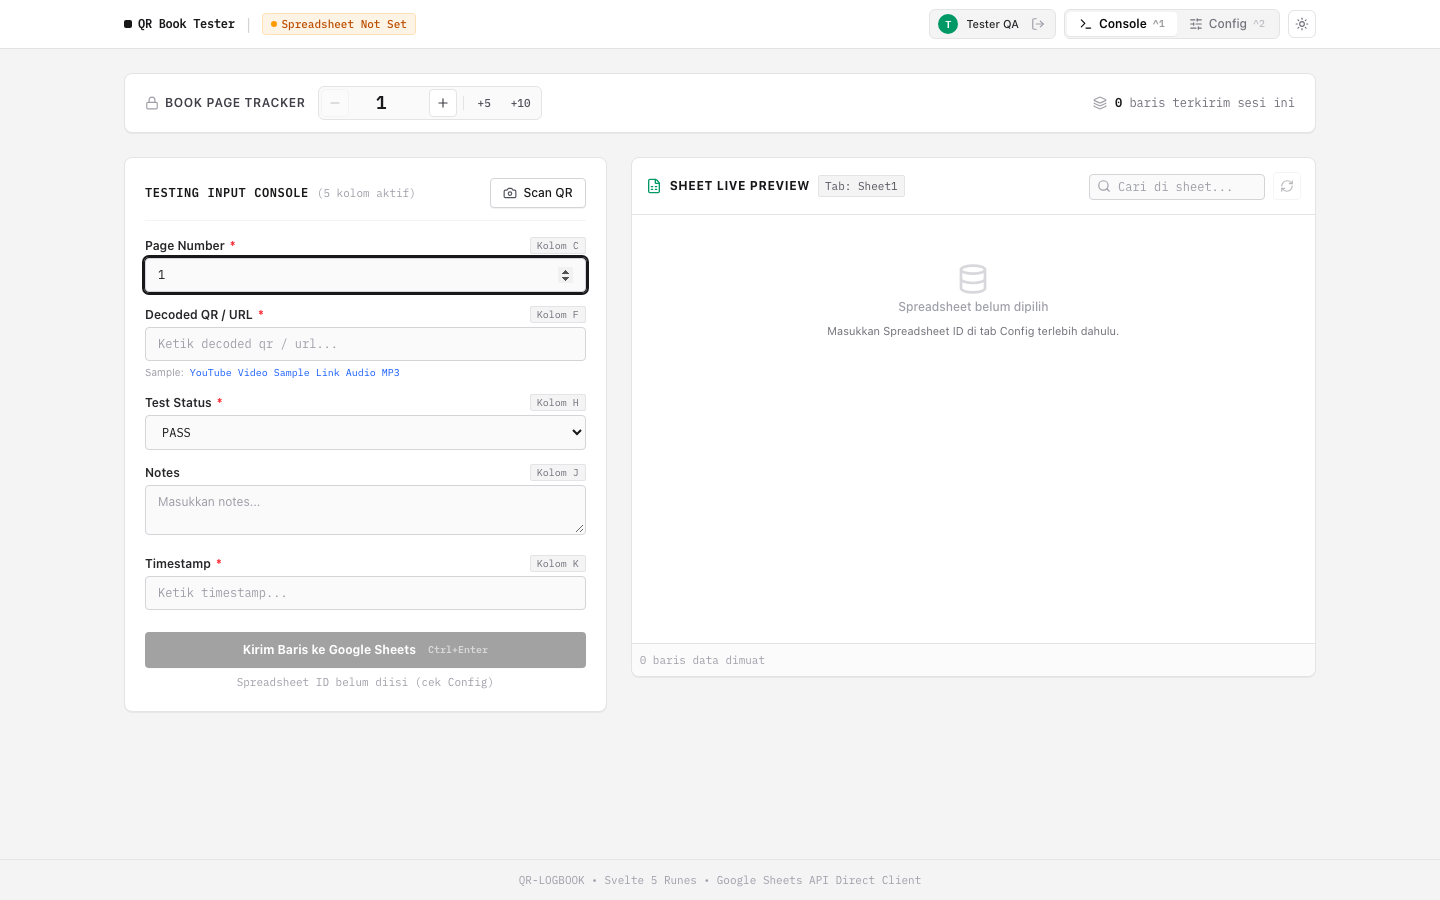
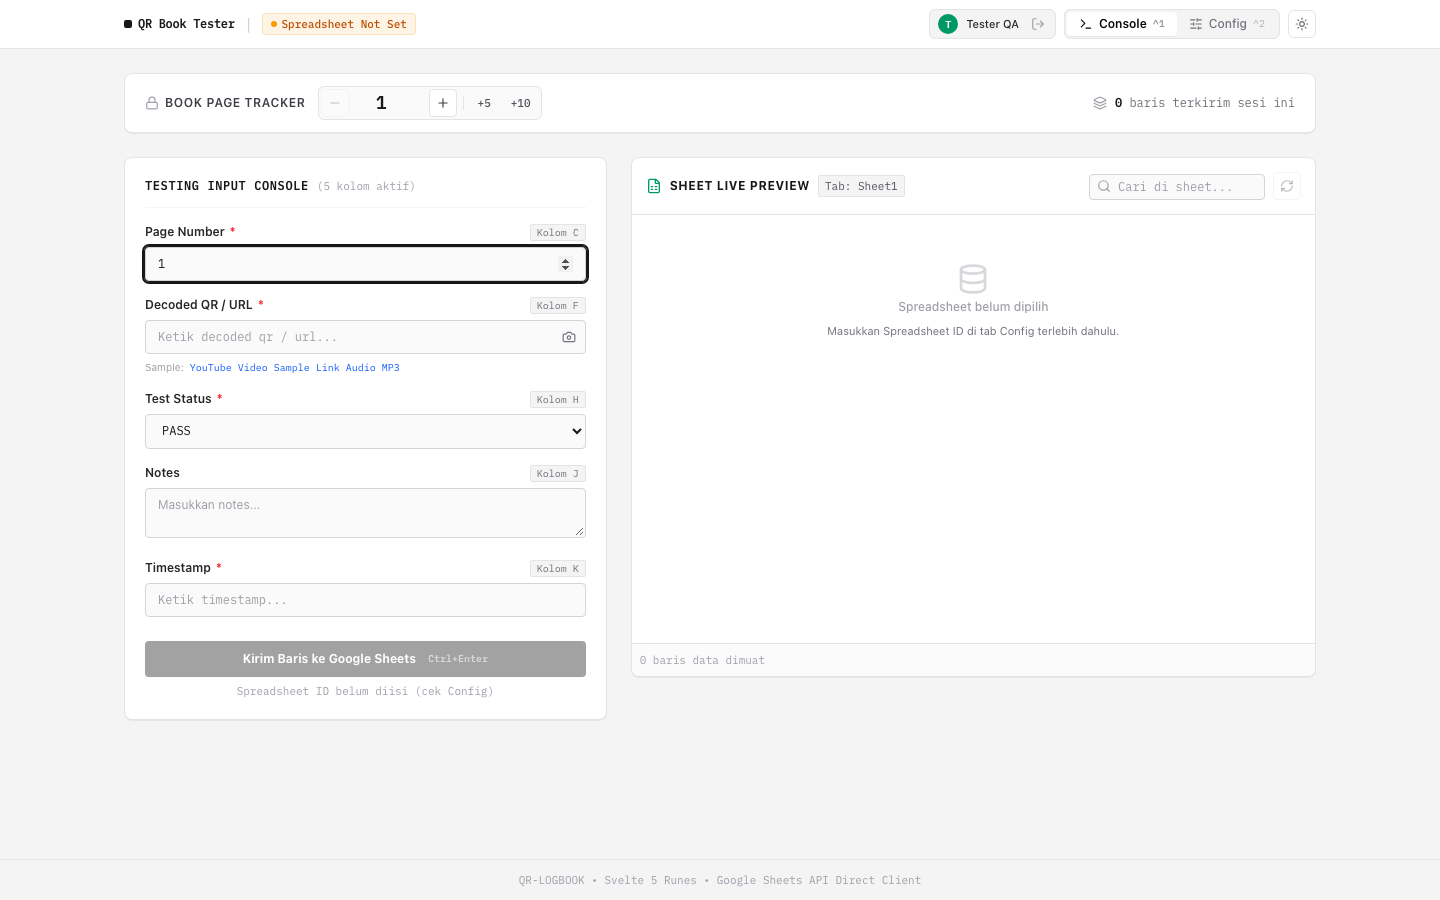
feat(console): add inline camera scan and contextual media preview for link fields

diff --git a/src/lib/components/Workspace.svelte b/src/lib/components/Workspace.svelte
@@ -24,7 +24,9 @@
   let formValues = $state<Record<string, any>>({});
 
   let isSubmitting = $state(false);
-  let isCameraOpen = $state(false);
+
+  // Per-field inline camera state
+  let scanningFieldId = $state<string | null>(null);
   let isStartingCamera = $state(false);
   let cameraError = $state<string | null>(null);
   let html5QrCodeInstance: any = null;
@@ -53,9 +55,23 @@
     { label: 'Audio MP3', url: 'https://podcast.org/episode-1.mp3' }
   ];
 
-  // Derived current QR value if qrContent field exists
-  let currentQrValue = $derived(String(formValues['qrContent'] || ''));
-  let parsed = $derived(parseDestination(currentQrValue));
+  /**
+   * Helper to detect whether a column represents a link/URL/destination
+   */
+  function isLinkField(field: { id: string; label: string; type: string }): boolean {
+    if (field.type === 'url') return true;
+    const norm = (field.label + ' ' + field.id).toLowerCase();
+    return (
+      norm.includes('link') ||
+      norm.includes('url') ||
+      norm.includes('qr') ||
+      norm.includes('destinasi') ||
+      norm.includes('destination') ||
+      norm.includes('barcode') ||
+      norm.includes('tautan') ||
+      norm.includes('web')
+    );
+  }
 
   // Validation
   let disabledReason = $derived.by(() => {
@@ -165,32 +181,35 @@
     feedback = { type: 'warning', message: 'Input dikembalikan ke form (Data di sheet tetap terisi).' };
   }
 
-  async function toggleCamera() {
-    if (isCameraOpen) {
+  async function toggleCameraForField(fieldId: string) {
+    if (scanningFieldId === fieldId) {
       stopCamera();
     } else {
-      await startCamera();
+      if (scanningFieldId) {
+        stopCamera();
+      }
+      await startCamera(fieldId);
     }
   }
 
-  async function startCamera() {
+  async function startCamera(fieldId: string) {
     cameraError = null;
     isStartingCamera = true;
+    scanningFieldId = fieldId;
 
     try {
       if (!navigator.mediaDevices || !navigator.mediaDevices.getUserMedia) {
         throw new Error('Kamera tidak didukung oleh browser Anda.');
       }
 
-      isCameraOpen = true;
       await new Promise((r) => setTimeout(r, 80));
 
       const { Html5Qrcode } = await import('html5-qrcode');
-      html5QrCodeInstance = new Html5Qrcode('qr-viewfinder');
+      html5QrCodeInstance = new Html5Qrcode(`qr-viewfinder-${fieldId}`);
 
       const config = {
         fps: 15,
-        qrbox: { width: 220, height: 220 },
+        qrbox: { width: 200, height: 200 },
         aspectRatio: 1.0
       };
 
@@ -198,20 +217,20 @@
         await html5QrCodeInstance.start(
           { facingMode: 'environment' },
           config,
-          onScanSuccess,
+          (decodedText: string) => onScanSuccess(fieldId, decodedText),
           () => {}
         );
       } catch {
         await html5QrCodeInstance.start(
           { facingMode: 'user' },
           config,
-          onScanSuccess,
+          (decodedText: string) => onScanSuccess(fieldId, decodedText),
           () => {}
         );
       }
     } catch (err: unknown) {
       cameraError = err instanceof Error ? err.message : 'Izin kamera ditolak';
-      isCameraOpen = false;
+      scanningFieldId = null;
     } finally {
       isStartingCamera = false;
     }
@@ -225,10 +244,10 @@
       } catch (_) {}
       html5QrCodeInstance = null;
     }
-    isCameraOpen = false;
+    scanningFieldId = null;
   }
 
-  function onScanSuccess(decodedText: string) {
+  function onScanSuccess(fieldId: string, decodedText: string) {
     if (isThrottled) return;
     isThrottled = true;
     frameFlashed = true;
@@ -237,11 +256,8 @@
       playScanBeep();
     }
 
-    // Set into qrContent field if available, or first text/url field
-    const qrField = activeFields.find((f) => f.id === 'qrContent' || f.type === 'url') || activeFields[0];
-    if (qrField) {
-      formValues[qrField.id] = decodedText.trim();
-    }
+    // Set value into the specifically targeted field
+    formValues[fieldId] = decodedText.trim();
 
     setTimeout(() => { frameFlashed = false; }, 350);
     setTimeout(() => { isThrottled = false; }, 1500);
@@ -322,7 +338,7 @@
 <svelte:window onkeydown={handleKeydown} />
 
 <div class="bg-white dark:bg-zinc-900 border border-zinc-200 dark:border-zinc-800 rounded-lg p-5 shadow-2xs space-y-4 transition-colors">
-  <!-- Top bar: Camera toggle & sample shortcuts -->
+  <!-- Top bar -->
   <div class="flex items-center justify-between border-b border-zinc-100 dark:border-zinc-800 pb-3">
     <div class="flex items-center gap-2">
       <span class="text-xs font-bold uppercase tracking-wider text-zinc-900 dark:text-zinc-100 font-mono-data">
@@ -332,51 +348,17 @@
         ({activeFields.length} kolom aktif)
       </span>
     </div>
-
-    <!-- Camera Trigger -->
-    <button
-      type="button"
-      class="inline-flex items-center gap-1.5 px-3 py-1.5 text-xs font-medium rounded-sm border border-zinc-300 dark:border-zinc-700 bg-white dark:bg-zinc-800 hover:bg-zinc-100 dark:hover:bg-zinc-700 text-zinc-900 dark:text-zinc-100 transition-colors shadow-2xs cursor-pointer"
-      onclick={toggleCamera}
-      disabled={isStartingCamera}
-    >
-      {#if isCameraOpen}
-        <CameraOff class="w-3.5 h-3.5 text-red-500" />
-        <span>Tutup Kamera</span>
-      {:else}
-        <Camera class="w-3.5 h-3.5 text-zinc-600 dark:text-zinc-300" />
-        <span>Scan QR</span>
-      {/if}
-    </button>
   </div>
 
-  <!-- Camera Viewfinder Overlay -->
-  {#if isCameraOpen}
-    <div class="relative overflow-hidden rounded-md border border-zinc-300 dark:border-zinc-700 bg-black min-h-[220px] flex items-center justify-center">
-      <div id="qr-viewfinder" class="w-full max-w-sm"></div>
-      <div class="absolute inset-0 pointer-events-none flex items-center justify-center">
-        <div class="w-48 h-48 rounded-md border-2 transition-colors duration-150 {frameFlashed ? 'border-emerald-500 bg-emerald-500/20' : 'border-zinc-100/60 shadow-[0_0_0_9999px_rgba(0,0,0,0.45)]'}">
-        </div>
-      </div>
-    </div>
-  {/if}
-
-  {#if cameraError}
-    <div class="p-2 text-xs text-red-600 dark:text-red-400 bg-red-500/10 rounded-sm border border-red-500/20">
-      {cameraError}
-    </div>
-  {/if}
-
-  <!-- Media Preview if URL is present -->
-  {#if currentQrValue.trim()}
-    <MediaPreview {parsed} />
-  {/if}
-
   <!-- Pure Dynamic Form Fields (100% In Sync with Config & Sheet Columns) -->
-  <form onsubmit={(e) => { e.preventDefault(); handleSubmit(); }} class="space-y-3.5">
+  <form onsubmit={(e) => { e.preventDefault(); handleSubmit(); }} class="space-y-4">
     {#each activeFields as field, idx}
       {@const mapping = appState.mappings.find((m) => m.fieldId === field.id)}
-      <div class="space-y-1">
+      {@const isLink = isLinkField(field)}
+      {@const fieldValue = String(formValues[field.id] || '')}
+      {@const fieldParsed = isLink && fieldValue.trim() ? parseDestination(fieldValue) : null}
+
+      <div class="space-y-1.5">
         <div class="flex items-center justify-between">
           <label for={`field-${field.id}`} class="block text-xs font-semibold text-zinc-800 dark:text-zinc-200">
             {field.label}
@@ -418,7 +400,8 @@
             <span>Centang jika valid / terkonfirmasi</span>
           </label>
         {:else}
-          <div class="relative">
+          <!-- Input field with inline Camera icon button if it's a link/URL/QR column -->
+          <div class="relative flex items-center">
             {#if idx === 0}
               <input
                 id={`field-${field.id}`}
@@ -426,7 +409,7 @@
                 bind:this={firstInputRef}
                 bind:value={formValues[field.id]}
                 placeholder={`Ketik ${field.label.toLowerCase()}...`}
-                class="w-full font-mono-data text-xs py-2 px-3 rounded-sm border border-zinc-300 dark:border-zinc-700 bg-zinc-50 dark:bg-zinc-950 text-zinc-900 dark:text-zinc-100 placeholder:text-zinc-400 focus:outline-none focus:ring-1 focus:ring-zinc-900 dark:focus:ring-zinc-100"
+                class="w-full font-mono-data text-xs py-2 pl-3 {isLink ? 'pr-9' : 'pr-3'} rounded-sm border border-zinc-300 dark:border-zinc-700 bg-zinc-50 dark:bg-zinc-950 text-zinc-900 dark:text-zinc-100 placeholder:text-zinc-400 focus:outline-none focus:ring-1 focus:ring-zinc-900 dark:focus:ring-zinc-100"
               />
             {:else}
               <input
@@ -434,24 +417,65 @@
                 type={field.type === 'number' ? 'number' : field.type === 'url' ? 'url' : 'text'}
                 bind:value={formValues[field.id]}
                 placeholder={`Ketik ${field.label.toLowerCase()}...`}
-                class="w-full font-mono-data text-xs py-2 px-3 rounded-sm border border-zinc-300 dark:border-zinc-700 bg-zinc-50 dark:bg-zinc-950 text-zinc-900 dark:text-zinc-100 placeholder:text-zinc-400 focus:outline-none focus:ring-1 focus:ring-zinc-900 dark:focus:ring-zinc-100"
+                class="w-full font-mono-data text-xs py-2 pl-3 {isLink ? 'pr-9' : 'pr-3'} rounded-sm border border-zinc-300 dark:border-zinc-700 bg-zinc-50 dark:bg-zinc-950 text-zinc-900 dark:text-zinc-100 placeholder:text-zinc-400 focus:outline-none focus:ring-1 focus:ring-zinc-900 dark:focus:ring-zinc-100"
               />
             {/if}
-            {#if field.id === 'qrContent' && !formValues['qrContent']}
-              <div class="flex items-center gap-1.5 mt-1">
-                <span class="text-[10px] text-zinc-400">Sample:</span>
-                {#each SAMPLE_QRS as sample}
-                  <button
-                    type="button"
-                    class="text-[10px] font-mono-data text-blue-600 dark:text-blue-400 hover:underline"
-                    onclick={() => formValues['qrContent'] = sample.url}
-                  >
-                    {sample.label}
-                  </button>
-                {/each}
-              </div>
+
+            <!-- Inline Camera Action Button for link/URL columns -->
+            {#if isLink}
+              <button
+                type="button"
+                class="absolute right-1.5 p-1 rounded-sm text-zinc-500 hover:text-zinc-900 dark:text-zinc-400 dark:hover:text-zinc-100 hover:bg-zinc-200/60 dark:hover:bg-zinc-800 transition-colors cursor-pointer"
+                title={`Scan QR langsung ke kolom ${field.label}`}
+                onclick={() => toggleCameraForField(field.id)}
+              >
+                {#if scanningFieldId === field.id}
+                  <CameraOff class="w-3.5 h-3.5 text-red-500" />
+                {:else}
+                  <Camera class="w-3.5 h-3.5" />
+                {/if}
+              </button>
             {/if}
           </div>
+
+          <!-- Sample Links for quick testing on QR / link columns -->
+          {#if isLink && !formValues[field.id]}
+            <div class="flex items-center gap-1.5 mt-1">
+              <span class="text-[10px] text-zinc-400">Sample:</span>
+              {#each SAMPLE_QRS as sample}
+                <button
+                  type="button"
+                  class="text-[10px] font-mono-data text-blue-600 dark:text-blue-400 hover:underline cursor-pointer"
+                  onclick={() => formValues[field.id] = sample.url}
+                >
+                  {sample.label}
+                </button>
+              {/each}
+            </div>
+          {/if}
+
+          <!-- Contextual Inline Viewfinder for this specific field -->
+          {#if scanningFieldId === field.id}
+            <div class="mt-2 relative overflow-hidden rounded-md border border-zinc-300 dark:border-zinc-700 bg-black min-h-[200px] flex items-center justify-center">
+              <div id={`qr-viewfinder-${field.id}`} class="w-full max-w-xs"></div>
+              <div class="absolute inset-0 pointer-events-none flex items-center justify-center">
+                <div class="w-40 h-40 rounded-md border-2 transition-colors duration-150 {frameFlashed ? 'border-emerald-500 bg-emerald-500/20' : 'border-zinc-100/60 shadow-[0_0_0_9999px_rgba(0,0,0,0.45)]'}">
+                </div>
+              </div>
+            </div>
+            {#if cameraError}
+              <div class="p-2 text-xs text-red-600 dark:text-red-400 bg-red-500/10 rounded-sm border border-red-500/20">
+                {cameraError}
+              </div>
+            {/if}
+          {/if}
+
+          <!-- Automatic Media Preview specifically for this link field -->
+          {#if fieldParsed}
+            <div class="mt-2">
+              <MediaPreview parsed={fieldParsed} />
+            </div>
+          {/if}
         {/if}
       </div>
     {/each}
